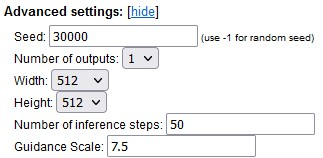
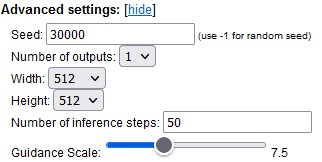
Support guidance_scale slider in config

Changed region(s): [[0.0, 0.0253, 0.9938, 1.0]]

diff --git a/index.html b/index.html
@@ -52,7 +52,7 @@
         <label for="width">Width:</label> <select id="width" name="width" value="512"><option value="128">128</option><option value="256">256</option><option value="512" selected>512</option><option value="768">768</option><option value="1024">1024</option></select><br/>
         <label for="height">Height:</label> <select id="height" name="height" value="512"><option value="128">128</option><option value="256">256</option><option value="512" selected>512</option><option value="768">768</option></select><br/>
         <label for="num_inference_steps">Number of inference steps:</label> <input id="num_inference_steps" name="num_inference_steps" value="50"><br/>
-        <label for="guidance_scale">Guidance Scale:</label> <input id="guidance_scale" name="guidance_scale" value="7.5"><br/>
+        <label for="guidance_scale">Guidance Scale:</label> <input id="guidance_scale" name="guidance_scale" value="75" type="range" min="10" max="200"> <span id="guidance_scale_value"></span></span><br/>
     </div>
 
     <button id="makeImage">Make Image</button> <br/><br/>
@@ -123,7 +123,7 @@ async function makeImage() {
         prompt: document.querySelector('#prompt').value,
         num_outputs: document.querySelector('#num_outputs').value,
         num_inference_steps: document.querySelector('#num_inference_steps').value,
-        guidance_scale: document.querySelector('#guidance_scale').value,
+        guidance_scale: document.querySelector('#guidance_scale').value / 10,
         width: document.querySelector('#width').value,
         height: document.querySelector('#height').value,
         seed: document.querySelector('#seed').value,
@@ -206,6 +206,15 @@ document.querySelector('#configToggleBtn').addEventListener('click', function() 
     document.querySelector('#configToggleBtn').innerHTML = (config.style.display === 'none' ? 'show' : 'hide')
     return false
 })
+
+let guidanceScale = document.querySelector('#guidance_scale')
+function updateGuidanceScale() {
+    let label = document.querySelector('#guidance_scale_value')
+    label.innerHTML = guidanceScale.value / 10
+}
+
+guidanceScale.addEventListener('input', updateGuidanceScale)
+updateGuidanceScale()
 
 setInterval(healthCheck, HEALTH_PING_INTERVAL * 1000)
 </script>

diff --git a/main.py b/main.py
@@ -41,6 +41,7 @@ async def image(req : ImageRequest):
             "width": req.width,
             "height": req.height,
             "seed": req.seed,
+            "guidance_scale": req.guidance_scale,
         }
     }
 
